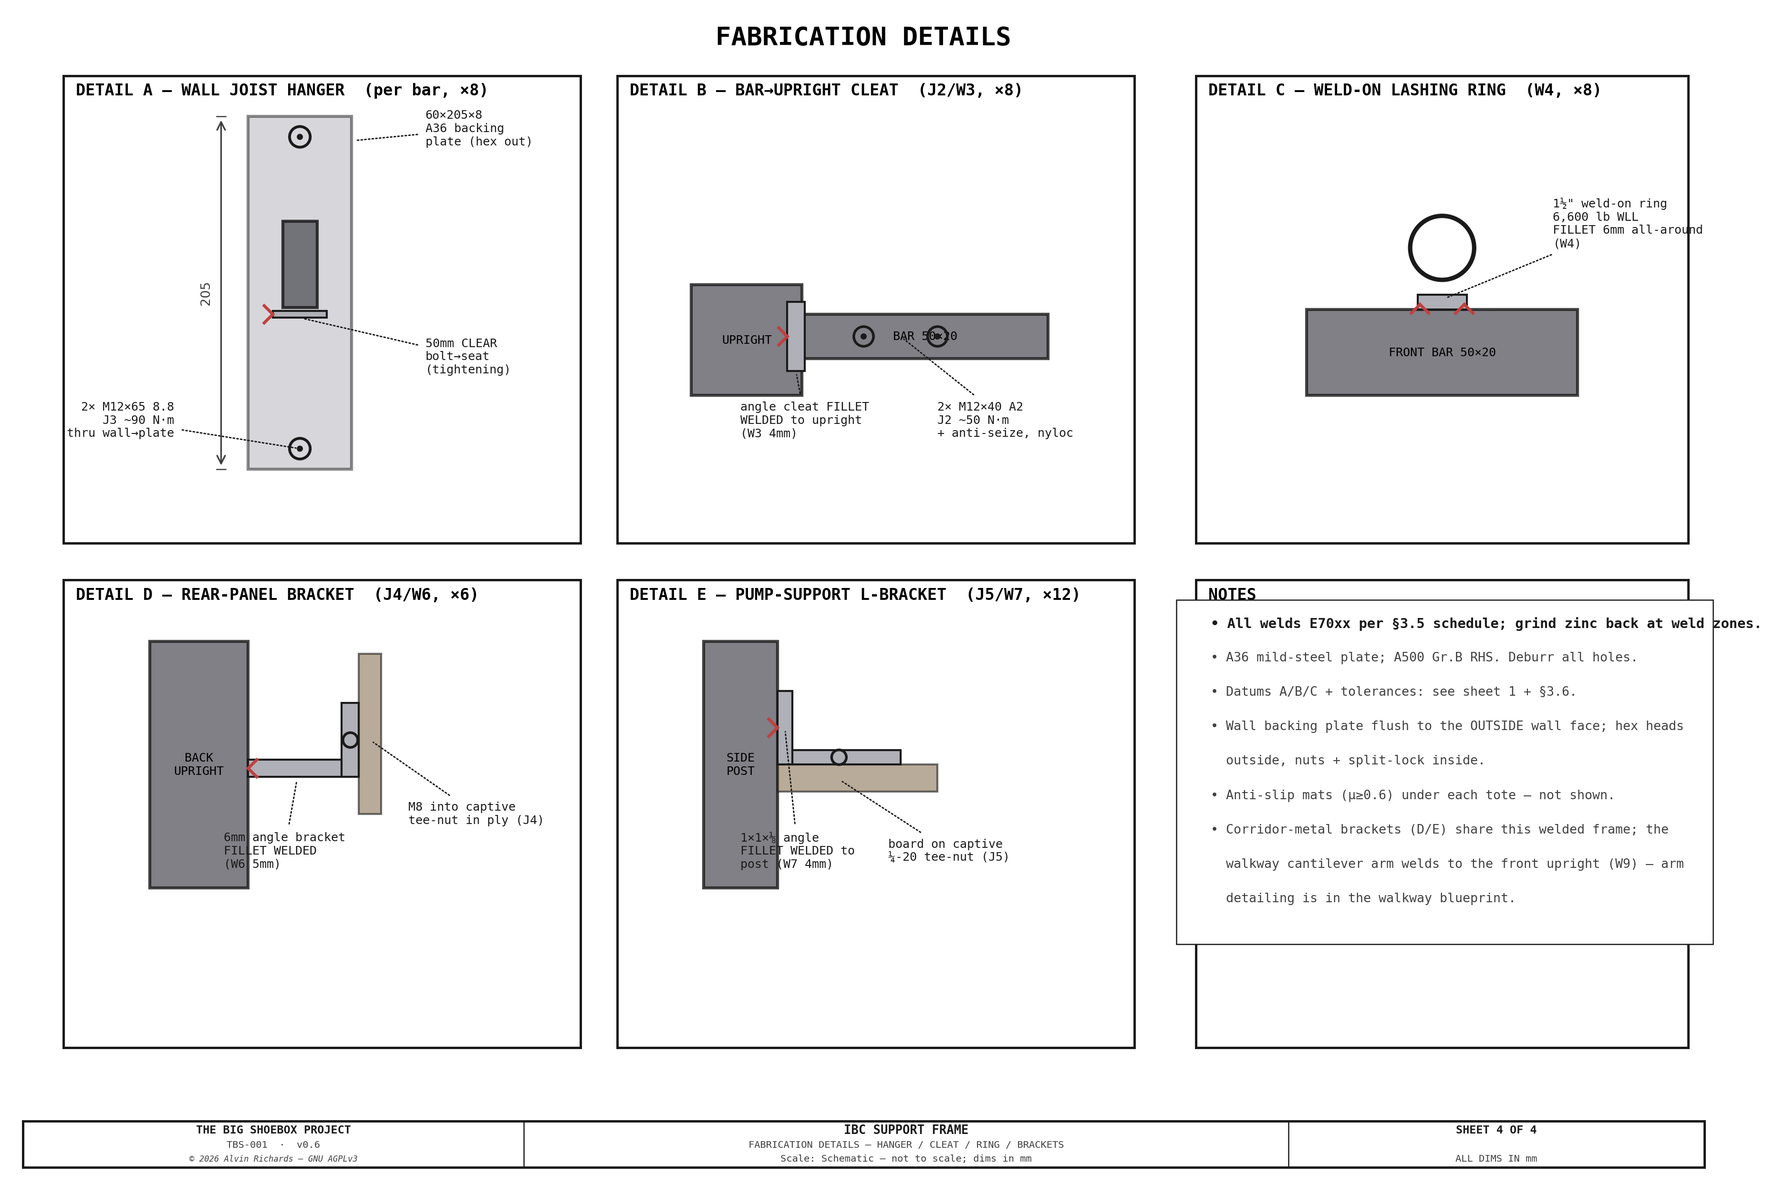
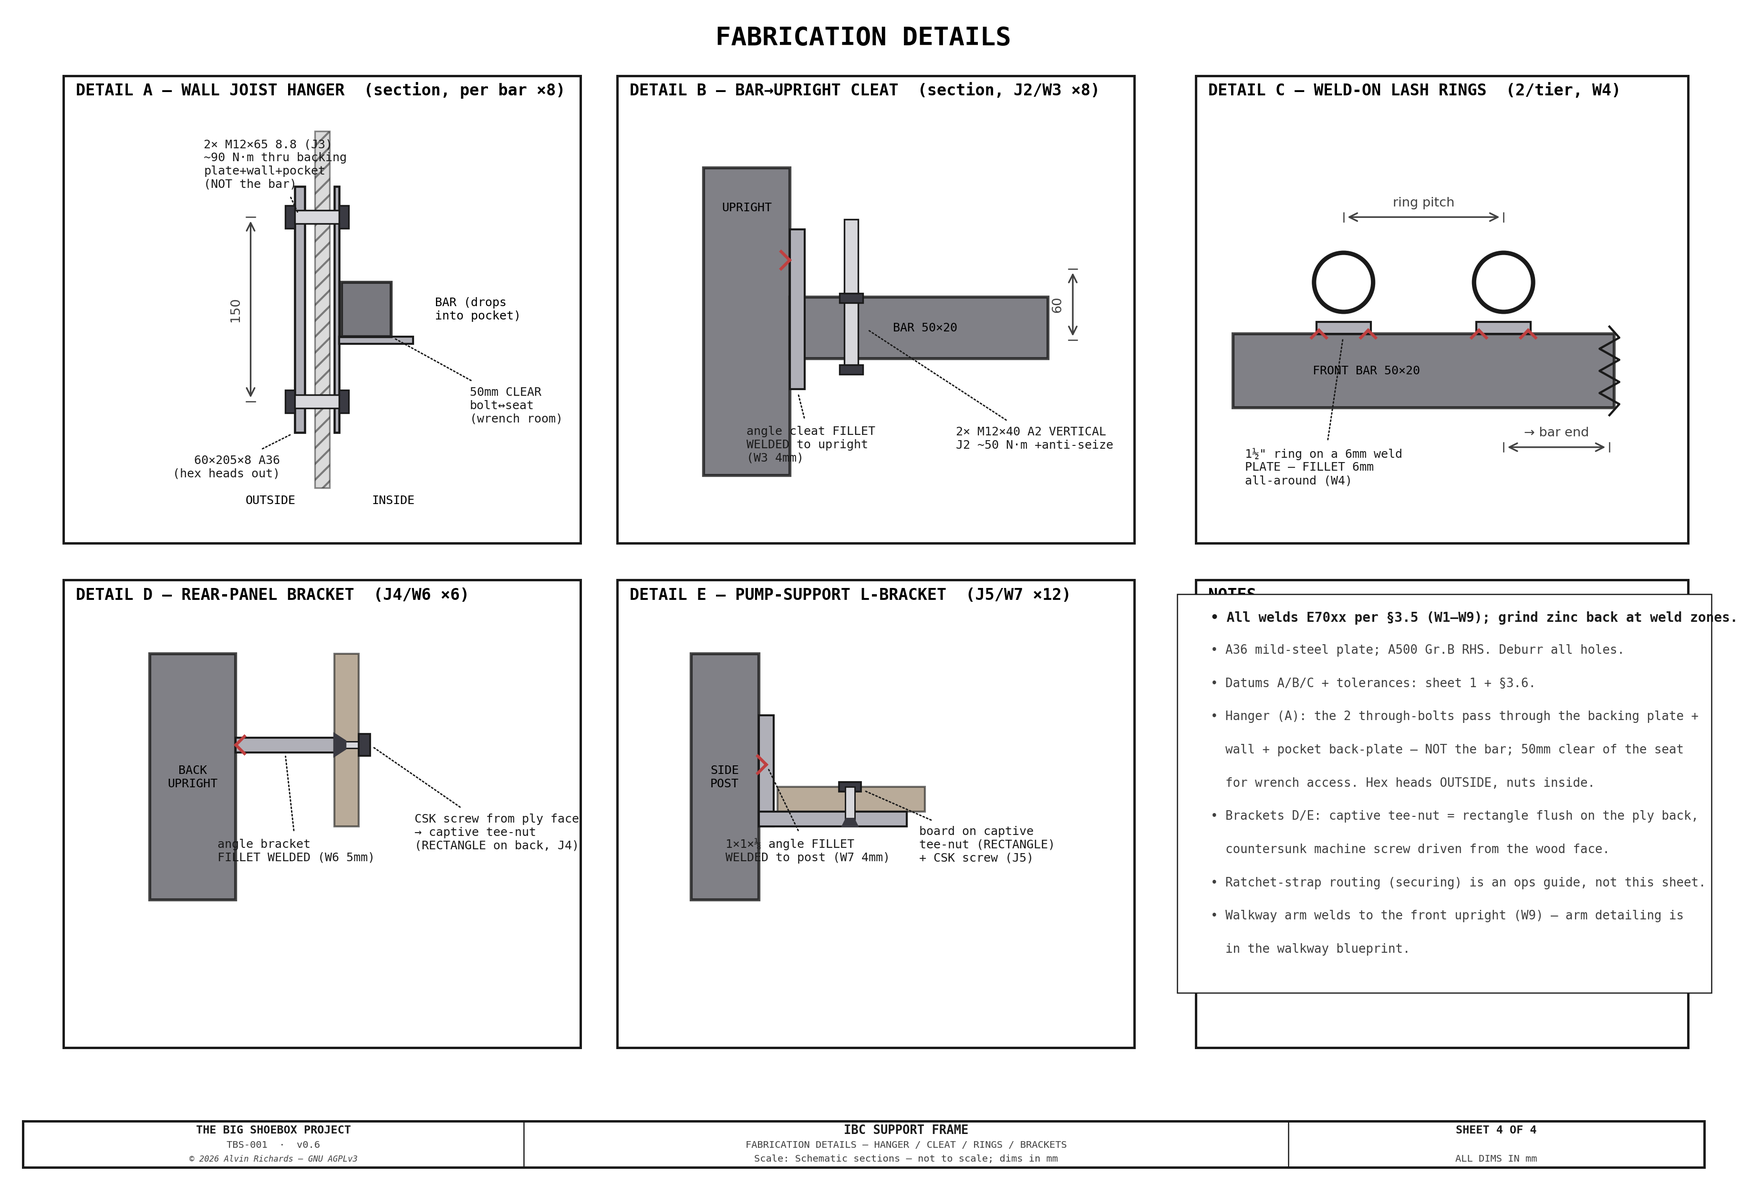
IBC frame Sheet 4: rework detail insets per review feedback
Corrected the fabrication-detail sheet (consolidates the sheet-2 detail content):
- DETAIL A wall joist hanger: now a SECTION showing the 2 through-bolts passing
  through the backing plate + wall + pocket back-plate (NOT the bar), a vertical
  pair 50mm clear of the seat, drawn in the standard bolt-in-section convention.
- DETAIL B bar->upright cleat: SECTION with VERTICAL bolts + spacing dim, standard
  bolt convention.
- DETAIL C weld-on lash rings: TWO rings, each on its weld PLATE (6mm fillet),
  ring-pitch + bar-end distance dims, bar extends past with a jagged break.
- DETAILS D/E: captive tee-nut now drawn as a RECTANGLE flush on the ply back +
  a countersunk screw from the wood face.
- Operational ratchet-strap close-up dropped (ops guide, not fab).
New _bolt / _csk_captive / _break section helpers. Gates green.

diff --git a/src/generators/generate_ibc_frame_drawing.py b/src/generators/generate_ibc_frame_drawing.py
@@ -43,7 +43,7 @@ from matplotlib.patches import Rectangle, Circle
 
 from tbs_constants import C_WID, C_HGT, IBC_COL_X, IBC_W, IBC_D, IBC_H_1000, IBC_H_STK_1000, BLUE_IBC_Y, IBC_FAR_Y, IBC_PALLET_H, IBC_CAGE_TUBE_D, IBC_CAGE_RAIL_W, IBC_CAGE_INSET, IBC_BOTTLE_INSET, IBC_VALVE_Z, IBC_FOOT_PLATE, IBC_FOOT_PLATE_T, IBC_FOOT_BOLT_D, IBC_FOOT_BOLT_PCD, IBC_FOOT_BOLT_N, IBC_WBKT_PLATE_W, IBC_WBKT_PLATE_T, IBC_WBKT_SEAT_PROJ, IBC_WBKT_SEAT_T, IBC_WBKT_GUSSET_H, IBC_WBKT_BOLT_D, IBC_WBKT_BOLT_N, PANEL_FRAME_TOP_Z, WALKWAY_RIGHT_X, WALKWAY_H, WALKWAY_GRATE_T, CORRIDOR_YD_NEAR, CORRIDOR_YD_FAR, IBC_FRAME_RHS, DIAGRAMS_DIR
 from tbs_title_block import title_block
-from tbs_drawing import draw_dim_h, draw_dim_v, leader, draw_notes
+from tbs_drawing import draw_dim_h, draw_dim_v, leader, draw_notes, hatch_rect
 from tbs_constants import DIAGRAM_DPI
 
 # ── Palette ──────────────────────────────────────────────────────────────────
@@ -54,6 +54,7 @@ C_DIM    = "#404040"       # dimensions
 C_STEEL  = "#B0B0B8"       # steel section fill
 C_FRAME  = "#606068"       # frame RHS steel (darker)
 C_WELD   = "#C04040"       # weld symbols
+C_BOLT   = "#3A3A42"       # bolt heads / nuts (dark)
 C_DETAIL = "#E8E0D8"       # detail inset background
 FONT     = {"fontfamily": "monospace"}
 
@@ -174,6 +175,45 @@ def _weld_tick(ax, x, y, *, side='right', size=8, zo=10):
                 lw=1.5, zorder=zo)
         ax.plot([(x), (x - s)], [(y), (y - s)], color=C_WELD,
                 lw=1.5, zorder=zo)
+
+
+# ═══════════════════════════════════════════════════════════════════════════════
+# Standard fastener-in-section symbols (bolt / countersunk+captive-nut / break line)
+# ═══════════════════════════════════════════════════════════════════════════════
+C_SHANK = "#D8D8DC"
+
+
+def _bolt(ax, x, y, L, *, d=13, vert=False, nut=True, zo=9):
+    """A bolt in SECTION (standard convention): hex head + shank + nut. Runs +L from (x,y) in +x
+    (or +y if vert); head at the start, nut at the far end."""
+    hh, hl = d * 1.7, d * 0.7          # head/nut across-flats + length
+    if not vert:
+        ax.add_patch(Rectangle((x - hl, y - hh/2), hl, hh, fc=C_BOLT, ec=C_OUT, lw=0.8, zorder=zo))
+        ax.add_patch(Rectangle((x, y - d/2), L, d, fc=C_SHANK, ec=C_OUT, lw=0.8, zorder=zo))
+        if nut:
+            ax.add_patch(Rectangle((x + L, y - hh/2), hl, hh, fc=C_BOLT, ec=C_OUT, lw=0.8, zorder=zo))
+    else:
+        ax.add_patch(Rectangle((x - hh/2, y - hl), hh, hl, fc=C_BOLT, ec=C_OUT, lw=0.8, zorder=zo))
+        ax.add_patch(Rectangle((x - d/2, y), d, L, fc=C_SHANK, ec=C_OUT, lw=0.8, zorder=zo))
+        if nut:
+            ax.add_patch(Rectangle((x - hh/2, y + L), hh, hl, fc=C_BOLT, ec=C_OUT, lw=0.8, zorder=zo))
+
+
+def _csk_captive(ax, x, y, *, wood_th=40, d=11, zo=9):
+    """A countersunk machine screw driven from a WOOD face (at x, going +x through wood_th) into a
+    captive tee-nut drawn as a RECTANGLE flush on the back face — per the ply-mount convention."""
+    ax.fill([x, x, x + d, x + d], [y - d, y + d, y + d*0.35, y - d*0.35], color=C_BOLT, zorder=zo+1)   # CSK head sunk in the wood
+    ax.add_patch(Rectangle((x, y - d*0.3), wood_th, d*0.6, fc=C_SHANK, ec=C_OUT, lw=0.7, zorder=zo))    # shank through wood
+    ax.add_patch(Rectangle((x + wood_th, y - d), 9, 2*d, fc=C_BOLT, ec=C_OUT, lw=0.9, zorder=zo+1))     # captive tee-nut RECTANGLE on the back
+
+
+def _break(ax, x, y0, y1, *, amp=8, zo=11):
+    """A jagged (zig-zag) break line across a member — diagrammatic 'member continues'."""
+    import numpy as _np
+    ys = _np.linspace(y0, y1, 9)
+    xs = [x + (amp if i % 2 else -amp) for i in range(len(ys))]
+    xs[0] = xs[-1] = x
+    ax.plot(xs, ys, color=C_OUT, lw=1.1, zorder=zo)
 
 
 # ═══════════════════════════════════════════════════════════════════════════════
@@ -1042,108 +1082,112 @@ def _dcell(ax, x0, y0, w, h, title):
 
 
 def sheet4():
-    """Sheet 4 — fabrication detail insets."""
+    """Sheet 4 — fabrication detail insets (corrected cross-sections)."""
     fig, ax = plt.subplots(figsize=(16.5, 10.5))
     ax.set_xlim(-20, 1360); ax.set_ylim(-40, 900); ax.set_aspect("equal"); ax.axis("off")
     ax.text(670, 875, "FABRICATION DETAILS", fontsize=13, fontweight="bold", ha="center", **FONT)
 
-    # ── DETAIL A — wall joist hanger + backing plate (elevation on the wall face) ──
+    # ── DETAIL A — WALL JOIST HANGER (Z–Yd section: bolts thru the PLATES, bar between) ──
     ax0, ay0 = 20, 470
-    _dcell(ax, ax0, ay0, 420, 380, "DETAIL A — WALL JOIST HANGER  (per bar, ×8)")
-    cx, cz0 = ax0 + 150, ay0 + 60          # plate bottom-left in cell
-    sc = 1.4                                 # mm→pt for this detail
-    pw, ph = 60 * sc, 205 * sc              # backing plate 60×205
-    _rhs_rect(ax, cx, cz0, pw, ph, fc=C_STEEL, alpha=0.5, zo=4)      # exterior backing plate
-    # the bar (seated, mid-height) + seat
-    bw, bh = 20 * sc, 50 * sc
-    bz = cz0 + (205 - 61 - 50) * sc          # bar bottom = seat top; seat at 50mm above bottom bolt
-    _rhs_rect(ax, cx + pw/2 - bw/2, bz, bw, bh, fc=C_FRAME, alpha=0.85, zo=6)
-    ax.add_patch(Rectangle((cx + pw/2 - bw/2 - 8, bz - 6*sc), bw + 16, 4*sc, fc=C_STEEL, ec=C_OUT, lw=1, zorder=6))  # seat ledge
-    # 2 vertical M12 bolts (50mm clear of the bar/seat)
-    for dz in (12*sc, 193*sc):
-        ax.add_patch(Circle((cx + pw/2, cz0 + dz), 6*sc, fc="none", ec=C_OUT, lw=1.4, zorder=7))
-        ax.add_patch(Circle((cx + pw/2, cz0 + dz), 2.5, fc=C_OUT, zorder=7))
-    _weld_tick(ax, cx + pw/2 - bw/2 - 8, bz - 4*sc, side='left', size=7)
-    draw_dim_v(ax, cx - 22, cz0, cz0 + ph, "205")
-    leader(ax, cx + pw/2, bz - 6*sc, cx + pw + 60, bz - 40, "50mm CLEAR\nbolt→seat\n(tightening)", fs=6, font=FONT, ha="left")
-    leader(ax, cx + pw/2, cz0 + 12*sc, cx - 60, cz0 + 40, "2× M12×65 8.8\nJ3 ~90 N·m\nthru wall→plate", fs=6, font=FONT, ha="right")
-    leader(ax, cx + pw, cz0 + ph - 20, cx + pw + 60, cz0 + ph - 10, "60×205×8\nA36 backing\nplate (hex out)", fs=6, font=FONT, ha="left")
+    _dcell(ax, ax0, ay0, 420, 380, "DETAIL A — WALL JOIST HANGER  (section, per bar ×8)")
+    wy = ax0 + 210; zc = ay0 + 190
+    hatch_rect(ax, wy - 6, ay0 + 45, 12, 290, color="#B8B8B8", hatch="///")            # wall in section
+    ax.add_patch(Rectangle((wy - 22, zc - 100), 8, 200, fc=C_STEEL, ec=C_OUT, lw=1.1, zorder=6))   # 60x205x8 backing plate
+    ax.add_patch(Rectangle((wy + 10, zc - 100), 4, 200, fc=C_STEEL, ec=C_OUT, lw=1.1, zorder=6))    # 4mm pocket back-plate
+    ax.add_patch(Rectangle((wy + 14, zc - 28), 60, 6, fc=C_STEEL, ec=C_OUT, lw=1, zorder=6))         # U-pocket seat
+    _rhs_rect(ax, wy + 16, zc - 22, 40, 44, fc=C_FRAME, alpha=0.85, zo=7)                            # bar (drops in)
+    ax.text(wy + 92, zc, "BAR (drops\ninto pocket)", fontsize=6, va="center", **FONT, zorder=8)
+    for dz in (75, -75):
+        _bolt(ax, wy - 22, zc + dz, 36, d=11, nut=True)                                             # thru plates+wall, NOT the bar
+    draw_dim_v(ax, wy - 58, zc - 75, zc + 75, "150")
+    leader(ax, wy + 56, zc - 22, wy + 120, zc - 78, "50mm CLEAR\nbolt↔seat\n(wrench room)", fs=6, font=FONT, ha="left")
+    leader(ax, wy - 18, zc + 75, wy - 96, zc + 118, "2× M12×65 8.8 (J3)\n~90 N·m thru backing\nplate+wall+pocket\n(NOT the bar)", fs=6, font=FONT, ha="left")
+    leader(ax, wy - 22, zc - 100, wy - 34, zc - 128, "60×205×8 A36\n(hex heads out)", fs=6, font=FONT, ha="right")
+    ax.text(wy - 42, ay0 + 32, "OUTSIDE", fontsize=6, ha="center", **FONT)
+    ax.text(wy + 58, ay0 + 32, "INSIDE", fontsize=6, ha="center", **FONT)
 
-    # ── DETAIL B — bar → upright cleat (plan) ──
+    # ── DETAIL B — BAR→UPRIGHT CLEAT (section, VERTICAL bolts + spacing) ──
     bx0, by0 = 470, 470
-    _dcell(ax, bx0, by0, 420, 380, "DETAIL B — BAR→UPRIGHT CLEAT  (J2/W3, ×8)")
-    ux, uy = bx0 + 60, by0 + 120
-    _rhs_rect(ax, ux, uy, 90, 90, fc=C_FRAME, alpha=0.8, zo=5)        # upright (plan, 50×50 scaled)
-    ax.text(ux + 45, uy + 45, "UPRIGHT", fontsize=6, ha="center", va="center", **FONT, zorder=7)
-    _rhs_rect(ax, ux + 90, uy + 30, 200, 36, fc=C_FRAME, alpha=0.8, zo=5)  # bar butting (plan)
-    ax.text(ux + 190, uy + 48, "BAR 50×20", fontsize=6, ha="center", va="center", **FONT, zorder=7)
-    ax.add_patch(Rectangle((ux + 78, uy + 20), 14, 56, fc=C_STEEL, ec=C_OUT, lw=1, zorder=6))  # cleat angle
-    _weld_tick(ax, ux + 78, uy + 48, side='left', size=7)            # cleat↔upright weld W3
-    for dx in (140, 200):
-        ax.add_patch(Circle((ux + dx, uy + 48), 8, fc="none", ec=C_OUT, lw=1.3, zorder=7))
-        ax.add_patch(Circle((ux + dx, uy + 48), 2.5, fc=C_OUT, zorder=7))
-    leader(ax, ux + 85, uy + 20, ux + 40, uy - 20, "angle cleat FILLET\nWELDED to upright\n(W3 4mm)", fs=6, font=FONT, ha="left")
-    leader(ax, ux + 170, uy + 48, ux + 200, uy - 20, "2× M12×40 A2\nJ2 ~50 N·m\n+ anti-seize, nyloc", fs=6, font=FONT, ha="left")
+    _dcell(ax, bx0, by0, 420, 380, "DETAIL B — BAR→UPRIGHT CLEAT  (section, J2/W3 ×8)")
+    ux = bx0 + 70; uz = by0 + 55
+    _rhs_rect(ax, ux, uz, 70, 250, fc=C_FRAME, alpha=0.8, zo=5)                                      # upright (section)
+    ax.text(ux + 35, uz + 215, "UPRIGHT", fontsize=6, ha="center", **FONT, zorder=8)
+    _rhs_rect(ax, ux + 70, uz + 95, 210, 50, fc=C_FRAME, alpha=0.8, zo=5)                            # bar butting
+    ax.text(ux + 180, uz + 120, "BAR 50×20", fontsize=6, ha="center", va="center", **FONT, zorder=8)
+    ax.add_patch(Rectangle((ux + 70, uz + 70), 12, 130, fc=C_STEEL, ec=C_OUT, lw=1, zorder=6))       # cleat angle leg
+    _weld_tick(ax, ux + 70, uz + 175, side='left', size=7)                                          # cleat↔upright (W3)
+    _bolt(ax, ux + 120, uz + 90, 60, d=11, vert=True, nut=False)                                    # 2 VERTICAL bolts
+    _bolt(ax, ux + 120, uz + 148, 60, d=11, vert=True, nut=False)
+    draw_dim_v(ax, ux + 300, uz + 110, uz + 168, "60")
+    leader(ax, ux + 76, uz + 70, ux + 35, uz + 25, "angle cleat FILLET\nWELDED to upright\n(W3 4mm)", fs=6, font=FONT, ha="left")
+    leader(ax, ux + 131, uz + 120, ux + 205, uz + 30, "2× M12×40 A2 VERTICAL\nJ2 ~50 N·m +anti-seize", fs=6, font=FONT, ha="left")
 
-    # ── DETAIL C — weld-on lashing ring ──
+    # ── DETAIL C — FRONT-BAR LASH RINGS (2 rings on weld plates + distances + break) ──
     lx0, ly0 = 940, 470
-    _dcell(ax, lx0, ly0, 400, 380, "DETAIL C — WELD-ON LASHING RING  (W4, ×8)")
-    rbx, rbz = lx0 + 90, ly0 + 120
-    _rhs_rect(ax, rbx, rbz, 220, 70, fc=C_FRAME, alpha=0.8, zo=5)     # front bar (side)
-    ax.text(rbx + 110, rbz + 35, "FRONT BAR 50×20", fontsize=6, ha="center", va="center", **FONT, zorder=7)
-    ax.add_patch(Rectangle((rbx + 90, rbz + 70), 40, 12, fc=C_STEEL, ec=C_OUT, lw=1, zorder=6))  # ring base
-    ax.add_patch(Circle((rbx + 110, rbz + 120), 26, fc="none", ec=C_OUT, lw=2.2, zorder=7))       # ring
-    _weld_tick(ax, rbx + 92, rbz + 74, side='down', size=7)
-    _weld_tick(ax, rbx + 128, rbz + 74, side='down', size=7)
-    leader(ax, rbx + 110, rbz + 78, rbx + 200, rbz + 140, "1½\" weld-on ring\n6,600 lb WLL\nFILLET 6mm all-around\n(W4)", fs=6, font=FONT, ha="left")
+    _dcell(ax, lx0, ly0, 400, 380, "DETAIL C — WELD-ON LASH RINGS  (2/tier, W4)")
+    bz = ly0 + 110
+    _rhs_rect(ax, lx0 + 30, bz, 310, 60, fc=C_FRAME, alpha=0.8, zo=5)                                # front bar (elevation)
+    ax.text(lx0 + 95, bz + 30, "FRONT BAR 50×20", fontsize=6, va="center", **FONT, zorder=8)
+    _break(ax, lx0 + 336, bz - 6, bz + 66)                                                          # bar continues (jagged)
+    for rx in (lx0 + 120, lx0 + 250):
+        ax.add_patch(Rectangle((rx - 22, bz + 60), 44, 10, fc=C_STEEL, ec=C_OUT, lw=1, zorder=6))   # weld base plate
+        ax.add_patch(Circle((rx, bz + 102), 24, fc="none", ec=C_OUT, lw=2.2, zorder=7))              # ring
+        _weld_tick(ax, rx - 20, bz + 63, side='down', size=6); _weld_tick(ax, rx + 20, bz + 63, side='down', size=6)
+    draw_dim_h(ax, lx0 + 120, lx0 + 250, bz + 155, "ring pitch")
+    draw_dim_h(ax, lx0 + 250, lx0 + 336, bz - 32, "→ bar end")
+    leader(ax, lx0 + 120, bz + 60, lx0 + 40, bz - 48, "1½\" ring on a 6mm weld\nPLATE — FILLET 6mm\nall-around (W4)", fs=6, font=FONT, ha="left")
 
-    # ── DETAIL D — rear-panel bracket (plumbing panel mount) ──
+    # ── DETAIL D — REAR-PANEL BRACKET (captive nut = rectangle + CSK screw) ──
     dx0, dy0 = 20, 60
-    _dcell(ax, dx0, dy0, 420, 380, "DETAIL D — REAR-PANEL BRACKET  (J4/W6, ×6)")
-    px, py = dx0 + 70, dy0 + 130
-    _rhs_rect(ax, px, py, 80, 200, fc=C_FRAME, alpha=0.8, zo=5)       # back upright (elev)
-    ax.text(px + 40, py + 100, "BACK\nUPRIGHT", fontsize=6, ha="center", va="center", **FONT, zorder=7)
-    ax.add_patch(Rectangle((px + 80, py + 90), 90, 14, fc=C_STEEL, ec=C_OUT, lw=1, zorder=6))     # bracket leg
-    ax.add_patch(Rectangle((px + 156, py + 90), 14, 60, fc=C_STEEL, ec=C_OUT, lw=1, zorder=6))    # bracket up-leg
-    _weld_tick(ax, px + 80, py + 97, side='right', size=7)            # bracket↔upright W6
-    ax.add_patch(Rectangle((px + 170, py + 60), 18, 130, fc=C_PALLET, ec=C_OUT, lw=1, alpha=0.6, zorder=5))  # panel ply
-    ax.add_patch(Circle((px + 163, py + 120), 6, fc="none", ec=C_OUT, lw=1.3, zorder=7))          # M8 bolt
-    leader(ax, px + 120, py + 90, px + 60, py + 30, "6mm angle bracket\nFILLET WELDED\n(W6 5mm)", fs=6, font=FONT, ha="left")
-    leader(ax, px + 179, py + 120, px + 210, py + 60, "M8 into captive\ntee-nut in ply (J4)", fs=6, font=FONT, ha="left")
+    _dcell(ax, dx0, dy0, 420, 380, "DETAIL D — REAR-PANEL BRACKET  (J4/W6 ×6)")
+    px, py = dx0 + 70, dy0 + 120
+    _rhs_rect(ax, px, py, 70, 200, fc=C_FRAME, alpha=0.8, zo=5)                                      # back upright
+    ax.text(px + 35, py + 100, "BACK\nUPRIGHT", fontsize=6, ha="center", va="center", **FONT, zorder=8)
+    ax.add_patch(Rectangle((px + 70, py + 120), 80, 12, fc=C_STEEL, ec=C_OUT, lw=1, zorder=6))       # bracket leg
+    _weld_tick(ax, px + 70, py + 126, side='right', size=7)                                          # bracket↔upright (W6)
+    ax.add_patch(Rectangle((px + 150, py + 60), 20, 140, fc=C_PALLET, ec=C_OUT, lw=1, alpha=0.6, zorder=5))  # panel ply
+    _csk_captive(ax, px + 150, py + 126, wood_th=20, d=9)                                            # CSK from ply → captive nut rect
+    leader(ax, px + 110, py + 120, px + 55, py + 40, "angle bracket\nFILLET WELDED (W6 5mm)", fs=6, font=FONT, ha="left")
+    leader(ax, px + 179, py + 126, px + 215, py + 55, "CSK screw from ply face\n→ captive tee-nut\n(RECTANGLE on back, J4)", fs=6, font=FONT, ha="left")
 
-    # ── DETAIL E — pump-support L-bracket ──
+    # ── DETAIL E — PUMP-SUPPORT L-BRACKET (captive nut = rectangle + CSK, vertical) ──
     ex0, ey0 = 470, 60
-    _dcell(ax, ex0, ey0, 420, 380, "DETAIL E — PUMP-SUPPORT L-BRACKET  (J5/W7, ×12)")
-    qx, qy = ex0 + 70, ey0 + 130
-    _rhs_rect(ax, qx, qy, 60, 200, fc=C_FRAME, alpha=0.8, zo=5)       # side post (elev)
-    ax.text(qx + 30, qy + 100, "SIDE\nPOST", fontsize=6, ha="center", va="center", **FONT, zorder=7)
-    ax.add_patch(Rectangle((qx + 60, qy + 100), 100, 12, fc=C_STEEL, ec=C_OUT, lw=1, zorder=6))   # L landing leg
-    ax.add_patch(Rectangle((qx + 60, qy + 100), 12, 60, fc=C_STEEL, ec=C_OUT, lw=1, zorder=6))     # L weld leg
-    _weld_tick(ax, qx + 60, qy + 130, side='left', size=7)           # L↔post W7
-    ax.add_patch(Rectangle((qx + 60, qy + 78), 130, 22, fc=C_PALLET, ec=C_OUT, lw=1, alpha=0.6, zorder=5))  # ply board
-    ax.add_patch(Circle((qx + 110, qy + 106), 6, fc="none", ec=C_OUT, lw=1.3, zorder=7))          # 1/4-20 bolt
-    leader(ax, qx + 66, qy + 130, qx + 30, qy + 30, "1×1×⅛ angle\nFILLET WELDED to\npost (W7 4mm)", fs=6, font=FONT, ha="left")
-    leader(ax, qx + 110, qy + 88, qx + 150, qy + 30, "board on captive\n¼-20 tee-nut (J5)", fs=6, font=FONT, ha="left")
+    _dcell(ax, ex0, ey0, 420, 380, "DETAIL E — PUMP-SUPPORT L-BRACKET  (J5/W7 ×12)")
+    qx, qy = ex0 + 60, ey0 + 120
+    _rhs_rect(ax, qx, qy, 55, 200, fc=C_FRAME, alpha=0.8, zo=5)                                      # side post
+    ax.text(qx + 27, qy + 100, "SIDE\nPOST", fontsize=6, ha="center", va="center", **FONT, zorder=8)
+    ax.add_patch(Rectangle((qx + 55, qy + 60), 12, 90, fc=C_STEEL, ec=C_OUT, lw=1, zorder=6))         # L weld leg
+    ax.add_patch(Rectangle((qx + 55, qy + 60), 120, 12, fc=C_STEEL, ec=C_OUT, lw=1, zorder=6))         # L landing leg
+    _weld_tick(ax, qx + 61, qy + 110, side='left', size=7)                                           # L↔post (W7)
+    ax.add_patch(Rectangle((qx + 70, qy + 72), 120, 20, fc=C_PALLET, ec=C_OUT, lw=1, alpha=0.6, zorder=5))  # ply board (on the landing leg)
+    # captive tee-nut RECTANGLE on the board TOP + a CSK screw driven UP from below the landing leg
+    ax.add_patch(Rectangle((qx + 120, qy + 88), 18, 8, fc=C_BOLT, ec=C_OUT, lw=0.9, zorder=8))        # tee-nut rectangle (board back/top)
+    ax.add_patch(Rectangle((qx + 125, qy + 60), 8, 32, fc=C_SHANK, ec=C_OUT, lw=0.7, zorder=8))       # screw shank up through the leg+board
+    ax.fill([qx + 123, qx + 135, qx + 132, qx + 126], [qy + 60, qy + 60, qy + 66, qy + 66], color=C_BOLT, zorder=9)  # CSK head under the leg
+    leader(ax, qx + 61, qy + 110, qx + 28, qy + 40, "1×1×⅛ angle FILLET\nWELDED to post (W7 4mm)", fs=6, font=FONT, ha="left")
+    leader(ax, qx + 138, qy + 90, qx + 185, qy + 45, "board on captive\ntee-nut (RECTANGLE)\n+ CSK screw (J5)", fs=6, font=FONT, ha="left")
 
     # ── Legend / notes cell ──
     nx0, ny0 = 940, 60
     _dcell(ax, nx0, ny0, 400, 380, "NOTES")
     draw_notes(ax, [
-        "• All welds E70xx per §3.5 schedule; grind zinc back at weld zones.",
+        "• All welds E70xx per §3.5 (W1–W9); grind zinc back at weld zones.",
         "• A36 mild-steel plate; A500 Gr.B RHS. Deburr all holes.",
-        "• Datums A/B/C + tolerances: see sheet 1 + §3.6.",
-        "• Wall backing plate flush to the OUTSIDE wall face; hex heads",
-        "  outside, nuts + split-lock inside.",
-        "• Anti-slip mats (μ≥0.6) under each tote — not shown.",
-        "• Corridor-metal brackets (D/E) share this welded frame; the",
-        "  walkway cantilever arm welds to the front upright (W9) — arm",
-        "  detailing is in the walkway blueprint.",
-    ], nx0 + 12, ny0 + 350, spacing=28, fs=6.4, font=FONT, width=380)
+        "• Datums A/B/C + tolerances: sheet 1 + §3.6.",
+        "• Hanger (A): the 2 through-bolts pass through the backing plate +",
+        "  wall + pocket back-plate — NOT the bar; 50mm clear of the seat",
+        "  for wrench access. Hex heads OUTSIDE, nuts inside.",
+        "• Brackets D/E: captive tee-nut = rectangle flush on the ply back,",
+        "  countersunk machine screw driven from the wood face.",
+        "• Ratchet-strap routing (securing) is an ops guide, not this sheet.",
+        "• Walkway arm welds to the front upright (W9) — arm detailing is",
+        "  in the walkway blueprint.",
+    ], nx0 + 12, ny0 + 355, spacing=27, fs=6.2, font=FONT, width=380)
 
     title_block(ax, "SHEET 4 OF 4",
                 drawing_title="IBC SUPPORT FRAME",
-                subtitle="FABRICATION DETAILS — HANGER / CLEAT / RING / BRACKETS",
-                scale_note="Schematic — not to scale; dims in mm",
+                subtitle="FABRICATION DETAILS — HANGER / CLEAT / RINGS / BRACKETS",
+                scale_note="Schematic sections — not to scale; dims in mm",
                 height=0.04)
     fig.savefig(os.path.join(DIAGRAMS_DIR, "ibc-frame-sheet4.png"), dpi=DIAGRAM_DPI,
                 bbox_inches="tight", facecolor=BG)
